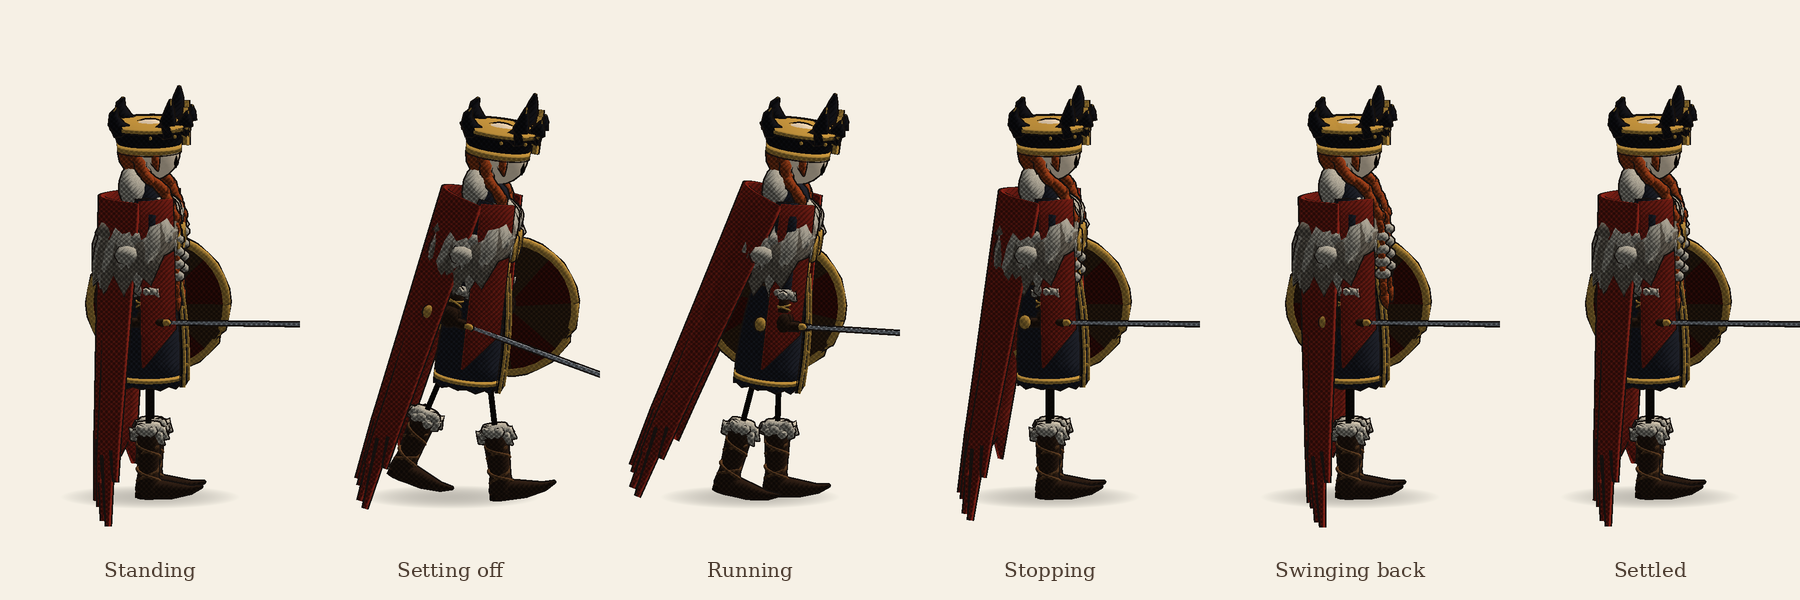
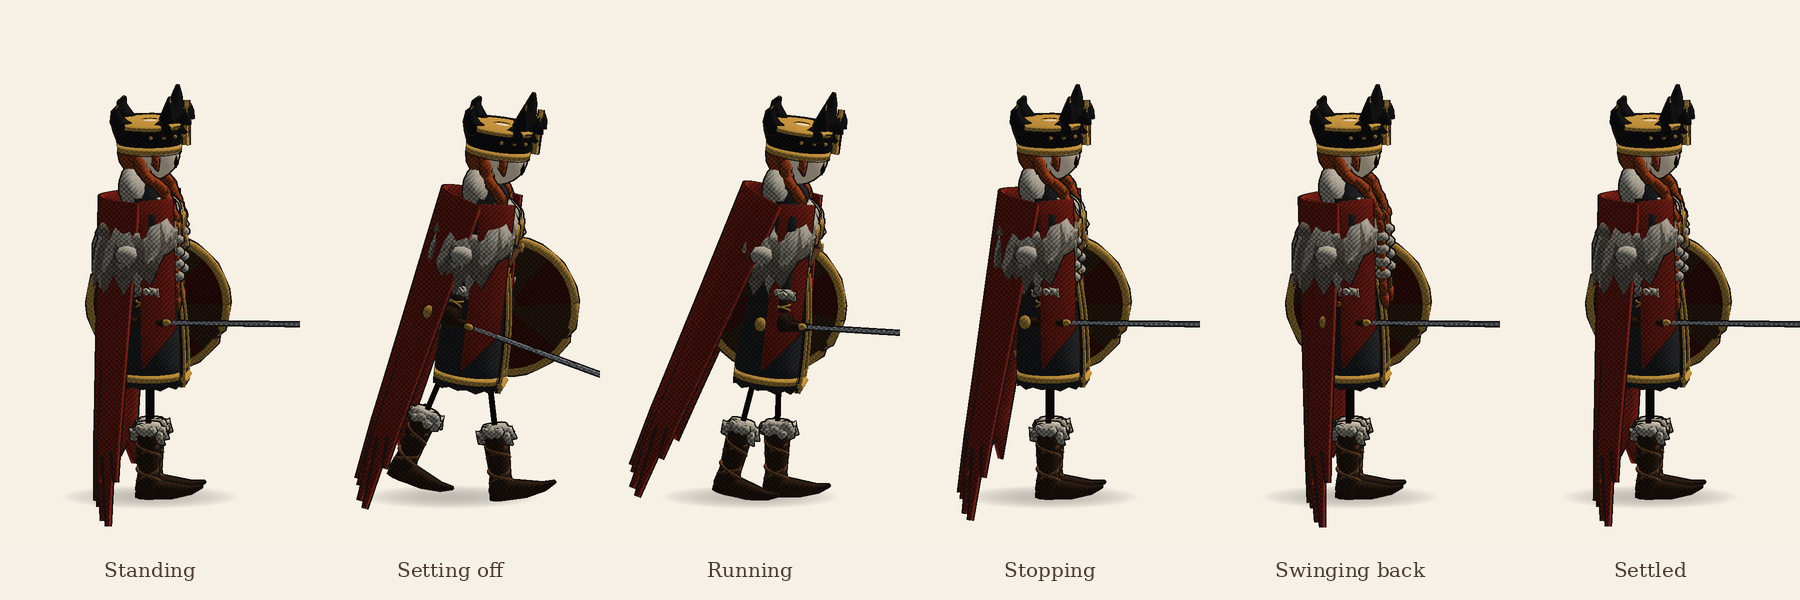
Jarl pass 3: crossed straps, helm-like crown, charcoal coat
Smaller brooches set higher on the chest with the leather straps crossing
in an X to the belt, a ring where they cross; the crown flares less so it
sits like a helm over the face; the coat panel ends in a broad gold border
with studs, the hem border is wider, and the coat is charcoal rather than
navy.

Claude-Session: https://claude.ai/code/session_01SCdejJ1UF8RUxAkkFhZXGU

diff --git a/OdinsCoin/Assets/Scripts/Characters/Garments.cs b/OdinsCoin/Assets/Scripts/Characters/Garments.cs
@@ -329,7 +329,7 @@ namespace OdinsCoin
             d.skirtTop = f.waist; d.skirtTopR = f.waistR * 0.98f; d.skirtBottom = hem; d.skirtBottomR = f.hipR * 1.35f; d.skirtDepth = f.depth + 0.05f;
             d.Add(Joints.Body, d.pal.cloth, CharacterKit.RaggedSkirt(d.skirtTop, d.skirtTopR, d.skirtBottom, d.skirtBottomR, d.skirtDepth, 22, 0.012f * s, d.seed + 31));
             // Gold border along the hem.
-            d.Add(Joints.Body, d.pal.brass, CharacterKit.Band(hem + 0.022f * s, 0.022f * s, d.SkirtRadius(hem + 0.022f * s) + 0.004f, d.skirtDepth, 22), false);
+            d.Add(Joints.Body, d.pal.brass, CharacterKit.Band(hem + 0.03f * s, 0.032f * s, d.SkirtRadius(hem + 0.03f * s) + 0.004f, d.skirtDepth, 22), false);
             // Front panel: darker cloth edged in gold, over the coat.
             const int rows = 7;
             var grid = new Vector3[rows, 3];
@@ -350,9 +350,12 @@ namespace OdinsCoin
                 for (int r = 0; r < rows; r++) radii[r] = 0.007f * s;
                 d.Add(Joints.Body, d.pal.brass, MeshData.Tube(edge, radii, 5), false);
             }
-            // Studs down the panel.
-            for (int r = 1; r < rows - 1; r++)
-                d.Add(Joints.Body, d.pal.brass, MeshData.Ellipsoid(grid[r, 1] + new Vector3(0f, 0f, 0.01f * s), Vector3.one * 0.008f * s, 5, 3), false);
+            // A broad gold border across the bottom of the panel, with a row of small studs above it.
+            var foot = new Vector3[3];
+            for (int c = 0; c < 3; c++) foot[c] = grid[rows - 1, c] + new Vector3(0f, 0.03f * s, 0.009f * s);
+            d.Add(Joints.Body, d.pal.brass, MeshData.Tube(foot, new[] { 0.016f * s, 0.016f * s, 0.016f * s }, 5), false);
+            for (int k = -2; k <= 2; k++)
+                d.Add(Joints.Body, d.pal.brass, MeshData.Ellipsoid(Vector3.Lerp(grid[rows - 2, 0], grid[rows - 2, 2], (k + 2) / 4f) + new Vector3(0f, 0f, 0.012f * s), Vector3.one * 0.007f * s, 5, 3), false);
         }
 
         /// <summary>Long sleeves down to the wrists, ending in fur cuffs, with gold-strapped bracers.</summary>
@@ -426,21 +429,21 @@ namespace OdinsCoin
         {
             var f = d.fit;
             float s = d.S;
-            float y = f.shoulderY - 0.16f * s, z = f.chestR * f.depth + 0.03f * s;
+            float y = f.shoulderY - 0.1f * s, z = f.chestR * f.depth + 0.03f * s;
             foreach (float x in new[] { -1f, 1f })
             {
                 var at = new Vector3(x * f.chestR * 0.72f, y, z);
-                d.Add(Joints.Body, d.pal.brass, MeshData.Lathe(new[] { new Vector2(0.058f * s, -0.008f * s), new Vector2(0.06f * s, 0f), new Vector2(0.052f * s, 0.012f * s), new Vector2(0.001f, 0.015f * s) }, 18)
+                d.Add(Joints.Body, d.pal.brass, MeshData.Lathe(new[] { new Vector2(0.046f * s, -0.008f * s), new Vector2(0.048f * s, 0f), new Vector2(0.041f * s, 0.012f * s), new Vector2(0.001f, 0.015f * s) }, 18)
                     .Transformed(at, Quaternion.Euler(90f, 0f, 0f), Vector3.one));
                 // Knotwork: an inner ring and a cross.
-                d.Add(Joints.Body, VikingModel.Shade(d.pal.brass, 0.6f), MeshData.Lathe(new[] { new Vector2(0.032f * s, 0f), new Vector2(0.032f * s, 0.004f * s) }, 16).Transformed(at + new Vector3(0f, 0f, 0.012f * s), Quaternion.Euler(90f, 0f, 0f), Vector3.one), false);
-                d.Add(Joints.Body, VikingModel.Shade(d.pal.brass, 0.6f), MeshData.Box(at + new Vector3(0f, 0f, 0.014f * s), new Vector3(0.06f, 0.008f, 0.004f) * s), false);
-                d.Add(Joints.Body, VikingModel.Shade(d.pal.brass, 0.6f), MeshData.Box(at + new Vector3(0f, 0f, 0.014f * s), new Vector3(0.008f, 0.06f, 0.004f) * s), false);
+                d.Add(Joints.Body, VikingModel.Shade(d.pal.brass, 0.6f), MeshData.Lathe(new[] { new Vector2(0.026f * s, 0f), new Vector2(0.026f * s, 0.004f * s) }, 16).Transformed(at + new Vector3(0f, 0f, 0.012f * s), Quaternion.Euler(90f, 0f, 0f), Vector3.one), false);
+                d.Add(Joints.Body, VikingModel.Shade(d.pal.brass, 0.6f), MeshData.Box(at + new Vector3(0f, 0f, 0.014f * s), new Vector3(0.048f, 0.007f, 0.004f) * s), false);
+                d.Add(Joints.Body, VikingModel.Shade(d.pal.brass, 0.6f), MeshData.Box(at + new Vector3(0f, 0f, 0.014f * s), new Vector3(0.007f, 0.048f, 0.004f) * s), false);
                 // Strap from the brooch across the chest to the opposite hip, with a ring halfway.
-                var end = new Vector3(-x * f.waistR * 0.8f, f.waist + 0.03f * s, f.waistR * f.depth + 0.015f);
-                var mid = Vector3.Lerp(at, end, 0.5f) + new Vector3(0f, 0f, 0.012f * s);
-                d.Add(Joints.Body, d.pal.leatherDark, MeshData.Tube(new[] { at + new Vector3(0f, -0.03f * s, -0.01f * s), mid, end }, new[] { 0.011f * s, 0.012f * s, 0.011f * s }, 5), false);
-                d.Add(Joints.Body, d.pal.brass, MeshData.Lathe(new[] { new Vector2(0.02f * s, -0.005f * s), new Vector2(0.02f * s, 0.005f * s) }, 10).Transformed(mid + new Vector3(0f, 0f, 0.012f * s), Quaternion.Euler(90f, 0f, 0f), Vector3.one), false);
+                var end = new Vector3(-x * f.waistR * 0.8f, f.waist + 0.03f * s, f.waistR * f.depth + 0.03f);
+                var mid = Vector3.Lerp(at, end, 0.5f) + new Vector3(0f, 0f, 0.02f * s);
+                d.Add(Joints.Body, d.pal.leather, MeshData.Tube(new[] { at + new Vector3(0f, -0.03f * s, -0.01f * s), mid, end }, new[] { 0.014f * s, 0.015f * s, 0.014f * s }, 5), false);
+                d.Add(Joints.Body, d.pal.brass, MeshData.Lathe(new[] { new Vector2(0.02f * s, -0.005f * s), new Vector2(0.02f * s, 0.005f * s) }, 10).Transformed(mid + new Vector3(0f, 0f, 0.016f * s), Quaternion.Euler(90f, 0f, 0f), Vector3.one), false);
             }
         }
 
@@ -476,15 +479,15 @@ namespace OdinsCoin
             float brim = cy + 0.12f * r;
             var black = d.pal.clothDark;
             // A low crown that flares out wide towards the top, like an upturned bell.
-            var scale = new Vector3(1.1f, 1f, 0.92f);
+            var scale = new Vector3(1.04f, 1f, 0.92f);
             var offset = new Vector3(0f, 0f, -0.02f * r);
             d.Add(Joints.Head, black, MeshData.Lathe(new[] {
                 new Vector2(r * 1.13f, brim - 0.1f * r), new Vector2(r * 1.15f, brim + 0.2f * r), new Vector2(r * 1.28f, brim + 0.5f * r),
-                new Vector2(r * 1.46f, brim + 0.72f * r), new Vector2(r * 1.3f, brim + 0.78f * r), new Vector2(0.01f, brim + 0.7f * r) }, 24)
+                new Vector2(r * 1.36f, brim + 0.78f * r), new Vector2(r * 1.22f, brim + 0.84f * r), new Vector2(0.01f, brim + 0.76f * r) }, 24)
                 .Transformed(offset, Quaternion.identity, scale));
             // Gold bands at the brim and around the flared rim, with studs.
             d.Add(Joints.Head, d.pal.brass, CharacterKit.Band(brim - 0.03f * r, 0.03f * s, r * 1.19f, 0.97f, 24).Transformed(offset, Quaternion.identity, scale));
-            d.Add(Joints.Head, d.pal.brass, CharacterKit.Band(brim + 0.7f * r, 0.024f * s, r * 1.48f, 0.97f, 24).Transformed(offset, Quaternion.identity, scale));
+            d.Add(Joints.Head, d.pal.brass, CharacterKit.Band(brim + 0.76f * r, 0.024f * s, r * 1.38f, 0.97f, 24).Transformed(offset, Quaternion.identity, scale));
             for (int i = -4; i <= 4; i++)
             {
                 float a = i * 0.36f;
@@ -498,7 +501,7 @@ namespace OdinsCoin
             {
                 float len = Mathf.Abs(a) < 0.6f ? 0.6f : Mathf.Abs(a) < 2f ? 1.1f : 0.75f;
                 var dir = new Vector3(Mathf.Sin(a) * scale.x, 0f, Mathf.Cos(a) * scale.z);
-                var root = offset + new Vector3(0f, brim + 0.66f * r, 0f) + dir * r * 1.32f;
+                var root = offset + new Vector3(0f, brim + 0.72f * r, 0f) + dir * r * 1.24f;
                 var path = new[] {
                     root, root + dir * r * 0.3f * len + Vector3.up * r * 0.3f * len,
                     root + dir * r * 0.42f * len + Vector3.up * r * 0.7f * len, root + dir * r * 0.36f * len + Vector3.up * r * 1.0f * len + Vector3.forward * 0.06f * r };

diff --git a/OdinsCoin/Assets/Scripts/Characters/Outfits.cs b/OdinsCoin/Assets/Scripts/Characters/Outfits.cs
@@ -57,7 +57,7 @@ namespace OdinsCoin
             { OutfitId.Jarl, new Outfit {
                 id = OutfitId.Jarl, title = "The Jarl",
                 palette = () => new Palette {
-                    cloth = new Color(0.16f, 0.17f, 0.21f), clothDark = new Color(0.1f, 0.1f, 0.12f),
+                    cloth = new Color(0.19f, 0.19f, 0.2f), clothDark = new Color(0.11f, 0.11f, 0.12f),
                     accent = new Color(0.62f, 0.16f, 0.11f), fur = new Color(0.84f, 0.8f, 0.72f), furShadow = new Color(0.58f, 0.53f, 0.46f),
                     brass = new Color(0.82f, 0.62f, 0.26f), hair = new Color(0.74f, 0.3f, 0.12f) },
                 defaultHair = HairStyle.WrappedBraids, suggestedWeapon = WeaponId.Sword, suggestedOffHand = OffHandId.RoundShield,
